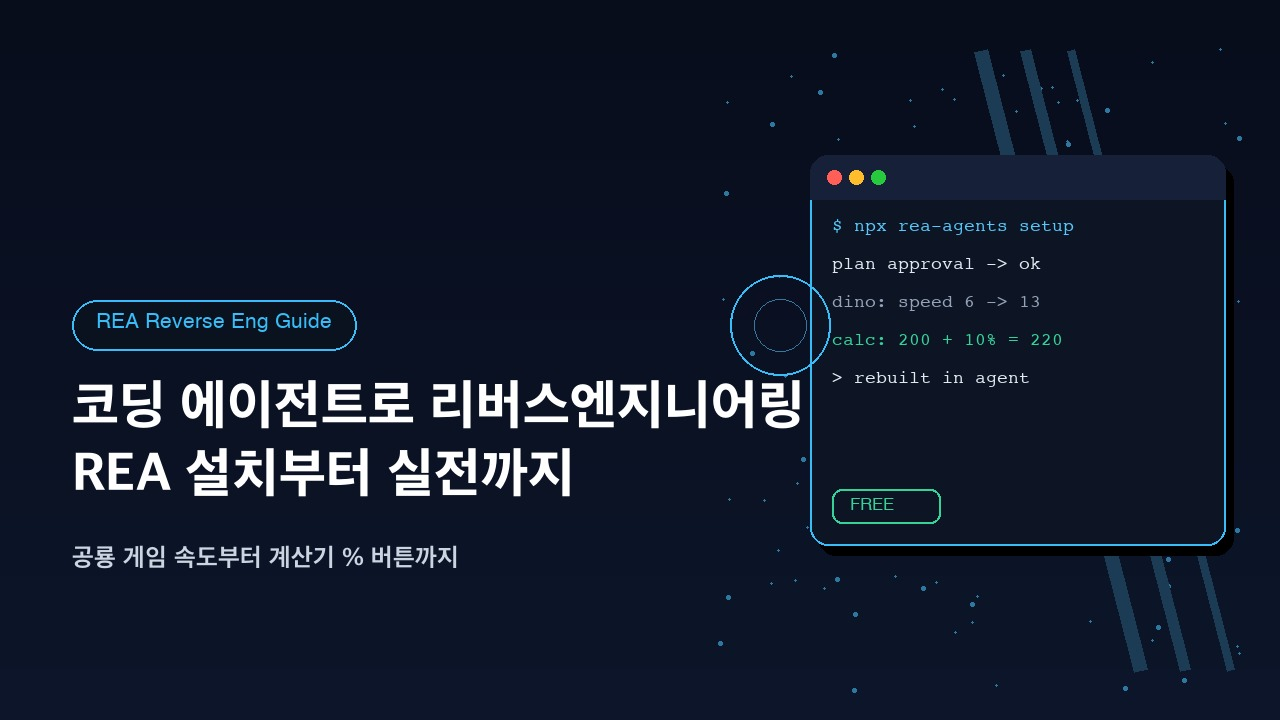
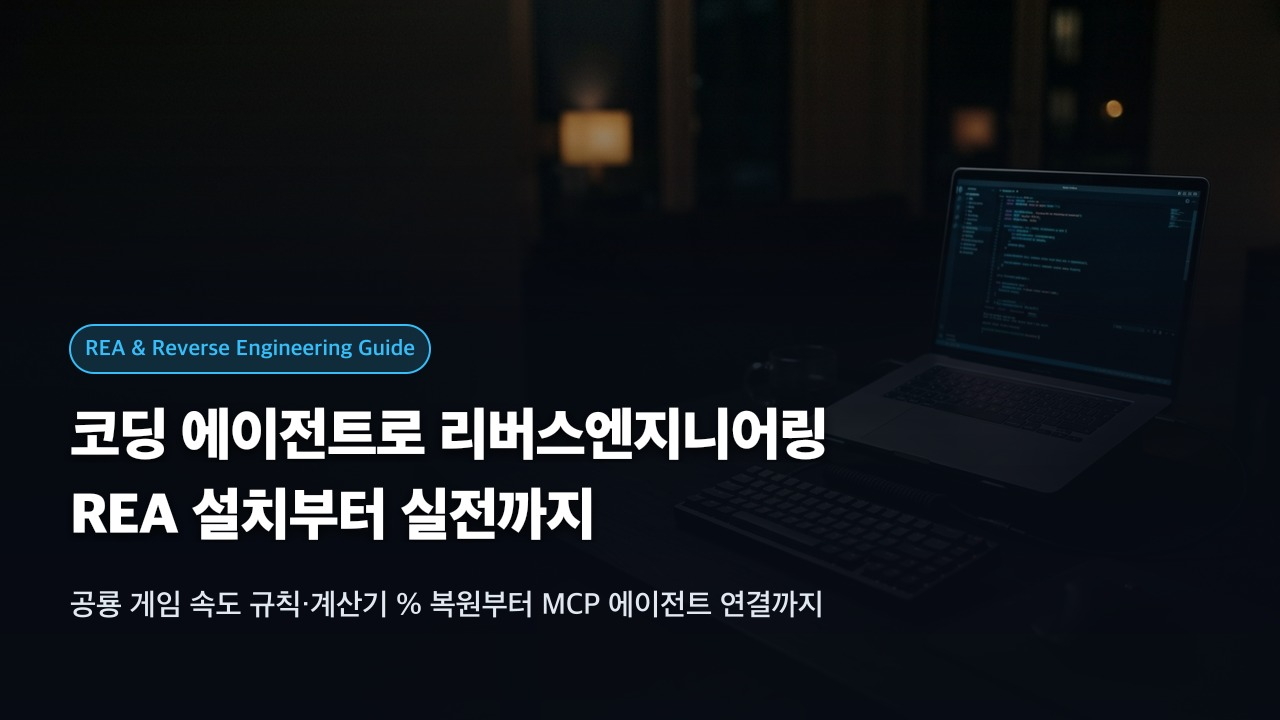
feat(post): REA 글 보완 (아키텍처도·MCP 연결·클린룸 원칙)
- REA-에이전트-사용자 협업 구조 SVG 다이어그램 추가
- OpenCode/Cursor/Claude MCP 연결 설정 및 프롬프트 템플릿
- 썸네일 실사풍 표준 디자인으로 교체

diff --git a/files/posts/20261013-1-rea-reverse-engineering-guide.md b/files/posts/20261013-1-rea-reverse-engineering-guide.md
@@ -3,34 +3,125 @@ category: "AI & Intelligence"
 title: "코딩 에이전트로 리버스엔지니어링: REA 설치부터 실전까지"
 date: "2026-10-13"
 image: "/images/rea-reverse-engineering-guide_thumbnail.jpg"
-tags: ["REA", "ReverseEngineering", "CodingAgent", "MCP", "OpenCode"]
-excerpt: "코딩 에이전트에게 분석 도구를 쥐여주는 REA. 설치법부터 공룡 게임 속도 규칙과 계산기 % 버튼 해부 예제까지 정리합니다."
+tags: ["REA", "ReverseEngineering", "CodingAgent", "MCP", "OpenCode", "CleanRoom"]
+excerpt: "코딩 에이전트에게 리버스엔지니어링의 눈을 쥐여주는 REA(Reverse Engineer Anything). 설치법부터 공룡 게임 속도 규칙·계산기 % 분기 복원, OpenCode·Cursor MCP 연결 및 클린룸 재구현 원칙까지 총정리합니다."
 ---
 
-## 🔍 1. REA란: 에이전트에게 분석 도구를 쥐여주기
+## 🔍 1. REA란: 에이전트에게 분석의 눈을 쥐여주기
 
-<strong>REA(Reverse Engineer Anything)</strong>는 코딩 에이전트가 프로그램을 조사하고 동작을 설명할 수 있도록 분석 도구를 제공하는 오픈소스 프로젝트입니다(MIT 라이선스). 한 줄로 말하면 <strong>에이전트용 리버스엔지니어링 도구 상자</strong>입니다.
+<strong>REA(Reverse Engineer Anything)</strong>는 코딩 에이전트가 프로그램을 조사하고 동작을 설명할 수 있도록 분석 도구를 제공하는 오픈소스 프로젝트입니다(GitHub: <code>morluto/rea</code>, MIT 라이선스). 한 줄로 정의하면 <strong>에이전트용 리버스엔지니어링 도구 상자</strong>입니다.
 
-구조는 단순합니다. <strong>REA가 제공하는 것</strong>과 <strong>에이전트가 하는 것</strong>이 명확히 나뉩니다.
+전통적인 리버스엔지니어링은 진입 장벽이 매우 높았습니다. 개발자가 Ghidra, IDA Pro, x64dbg 같은 전문 분석기를 직접 다루며 수천 줄의 어셈블리 명령어를 한 줄씩 읽고, 제어 흐름 그래프(Control Flow Graph)를 머릿속에서 재조립해야 했습니다.
 
-| 구분 | 내용 |
-| :--- | :--- |
-| <strong>REA가 제공</strong> | 명령어(어셈블리), 디컴파일된 코드, 함수 호출 관계 |
-| <strong>에이전트가 수행</strong> | 어떤 분기가 적용되는지, 무엇을 계산하는지, 어떻게 다시 만드는지 설명 |
+REA는 이 패러다임을 완전히 바꿉니다. <strong>코딩 에이전트(Claude Code, Cursor, OpenCode, Windsurf 등)가 두뇌(해석 및 추론)</strong>를 맡고, <strong>REA가 눈과 손(디컴파일 및 호출 관계 추출)</strong>을 맡습니다.
 
-즉 REA는 눈(분석 도구)이고, 에이전트는 머리(해석)입니다. 패키지 실체는 <strong>rea-agents</strong>(npm 기준 6.x대)이며, 터미널 CLI와 MCP 서버 두 얼굴을 가졌습니다. MCP 서버라는 점이 중요한데, 이 블로그에서 다룬 OpenCode처럼 <strong>MCP를 지원하는 에이전트라면 그대로 붙일 수 있다</strong>는 뜻이기 때문입니다.
+<div style="margin: 32px 0; display: flex; justify-content: center; width: 100%;">
+<svg viewBox="0 0 840 330" xmlns="http://www.w3.org/2000/svg" style="width: 100%; max-width: 840px; height: auto; font-family: -apple-system, BlinkMacSystemFont, Pretendard, sans-serif;">
+  <defs>
+    <linearGradient id="cardBg" x1="0%" y1="0%" x2="100%" y2="100%">
+      <stop offset="0%" stop-color="#161b22" />
+      <stop offset="100%" stop-color="#0d1117" />
+    </linearGradient>
+    <filter id="shadow" x="-5%" y="-5%" width="110%" height="110%">
+      <feDropShadow dx="0" dy="4" stdDeviation="6" flood-color="#000000" flood-opacity="0.3" />
+    </filter>
+    <marker id="arrowCyan" viewBox="0 0 10 10" refX="6" refY="5" markerWidth="6" markerHeight="6" orient="auto-start-reverse">
+      <path d="M 0 1 L 10 5 L 0 9 z" fill="#38bdf8" />
+    </marker>
+    <marker id="arrowIndigo" viewBox="0 0 10 10" refX="6" refY="5" markerWidth="6" markerHeight="6" orient="auto-start-reverse">
+      <path d="M 0 1 L 10 5 L 0 9 z" fill="#818cf8" />
+    </marker>
+    <marker id="arrowEmerald" viewBox="0 0 10 10" refX="6" refY="5" markerWidth="6" markerHeight="6" orient="auto-start-reverse">
+      <path d="M 0 1 L 10 5 L 0 9 z" fill="#34d399" />
+    </marker>
+  </defs>
+  <!-- Container -->
+  <rect width="840" height="330" rx="14" fill="#0d1117" stroke="#30363d" stroke-width="1.5" />
+  <!-- Title Badge -->
+  <rect x="25" y="16" width="230" height="26" rx="13" fill="rgba(56, 189, 248, 0.15)" stroke="#38bdf8" stroke-width="1" />
+  <text x="140" y="33" fill="#38bdf8" font-size="12" font-weight="700" text-anchor="middle">REA &amp; Coding Agent Architecture</text>
+  <!-- Node 1: User -->
+  <g transform="translate(35, 105)" filter="url(#shadow)">
+    <rect width="180" height="135" rx="10" fill="url(#cardBg)" stroke="#30363d" stroke-width="1.2" />
+    <rect x="12" y="14" width="28" height="28" rx="6" fill="#38bdf8" fill-opacity="0.2" />
+    <text x="26" y="33" font-size="16" text-anchor="middle">👤</text>
+    <text x="48" y="33" fill="#ffffff" font-size="14" font-weight="700">사용자 (Developer)</text>
+    <text x="16" y="65" fill="#94a3b8" font-size="12">1. 자연어 분석 지시</text>
+    <text x="16" y="85" fill="#94a3b8" font-size="12">2. 분석 계획 검토/승인</text>
+    <text x="16" y="105" fill="#34d399" font-size="12" font-weight="600">➔ 최종 결과 검증 및 사용</text>
+  </g>
+  <!-- Node 2: Coding Agent -->
+  <g transform="translate(290, 45)" filter="url(#shadow)">
+    <rect width="250" height="115" rx="10" fill="url(#cardBg)" stroke="#818cf8" stroke-width="1.5" />
+    <rect x="12" y="12" width="28" height="28" rx="6" fill="#818cf8" fill-opacity="0.2" />
+    <text x="26" y="31" font-size="16" text-anchor="middle">🧠</text>
+    <text x="48" y="31" fill="#ffffff" font-size="14" font-weight="700">코딩 에이전트 (Brain)</text>
+    <text x="16" y="60" fill="#c7d2fe" font-size="12" font-weight="600">OpenCode · Cursor · Claude Code</text>
+    <text x="16" y="80" fill="#94a3b8" font-size="11.5">• 분석 계획 수립 &amp; 문맥 이해</text>
+    <text x="16" y="98" fill="#94a3b8" font-size="11.5">• 동작 규칙 복원 &amp; 클린룸 재작성</text>
+  </g>
+  <!-- Node 3: REA MCP Engine -->
+  <g transform="translate(290, 185)" filter="url(#shadow)">
+    <rect width="250" height="115" rx="10" fill="url(#cardBg)" stroke="#38bdf8" stroke-width="1.5" />
+    <rect x="12" y="12" width="28" height="28" rx="6" fill="#38bdf8" fill-opacity="0.2" />
+    <text x="26" y="31" font-size="16" text-anchor="middle">🛠</text>
+    <text x="48" y="31" fill="#ffffff" font-size="14" font-weight="700">REA 엔진 (Eyes &amp; Hands)</text>
+    <text x="16" y="60" fill="#7dd3fc" font-size="12" font-weight="600">rea-agents (MCP Server / CLI)</text>
+    <text x="16" y="80" fill="#94a3b8" font-size="11.5">• 디컴파일러/AST 분석 브릿지</text>
+    <text x="16" y="98" fill="#94a3b8" font-size="11.5">• 어셈블리·호출 그래프·문자열 추출</text>
+  </g>
+  <!-- Node 4: Target -->
+  <g transform="translate(620, 105)" filter="url(#shadow)">
+    <rect width="185" height="135" rx="10" fill="url(#cardBg)" stroke="#30363d" stroke-width="1.2" />
+    <rect x="12" y="14" width="28" height="28" rx="6" fill="#34d399" fill-opacity="0.2" />
+    <text x="26" y="33" font-size="16" text-anchor="middle">🎯</text>
+    <text x="48" y="33" fill="#ffffff" font-size="14" font-weight="700">분석 대상 (Target)</text>
+    <text x="16" y="65" fill="#94a3b8" font-size="12">• C/C++, Rust, Go 실행파일</text>
+    <text x="16" y="85" fill="#94a3b8" font-size="12">• Electron / JS ASAR 아카이브</text>
+    <text x="16" y="105" fill="#94a3b8" font-size="12">• 브라우저 런타임 활동</text>
+  </g>
+  <!-- Connection: User -> Agent -->
+  <path d="M 215 140 Q 250 110 286 100" fill="none" stroke="#818cf8" stroke-width="1.8" marker-end="url(#arrowIndigo)" />
+  <text x="230" y="115" fill="#818cf8" font-size="10.5" font-weight="600">요청</text>
+  <!-- Connection: Agent <-> REA -->
+  <path d="M 400 160 L 400 180" fill="none" stroke="#38bdf8" stroke-width="1.8" marker-end="url(#arrowCyan)" />
+  <path d="M 430 180 L 430 160" fill="none" stroke="#818cf8" stroke-width="1.8" marker-end="url(#arrowIndigo)" />
+  <text x="438" y="173" fill="#94a3b8" font-size="10">MCP</text>
+  <!-- Connection: REA -> Target -->
+  <path d="M 540 220 Q 580 200 616 185" fill="none" stroke="#38bdf8" stroke-width="1.8" marker-end="url(#arrowCyan)" />
+  <text x="560" y="218" fill="#38bdf8" font-size="10.5" font-weight="600">추적/파싱</text>
+  <!-- Connection: Target -> REA -->
+  <path d="M 620 200 Q 580 230 544 240" fill="none" stroke="#34d399" stroke-width="1.8" stroke-dasharray="4 3" marker-end="url(#arrowEmerald)" />
+  <text x="575" y="240" fill="#34d399" font-size="10">바이트코드</text>
+</svg>
+</div>
+
+구조적 역할 분담은 아래 표와 같이 명확합니다.
+
+| 구분 | 주체 | 제공 및 수행하는 핵심 역할 |
+| :--- | :--- | :--- |
+| <strong>도구 (Eyes & Hands)</strong> | <strong>REA</strong> (<code>rea-agents</code>) | 디컴파일러 브릿지, 어셈블리/바이트코드 추출, 함수 호출 그래프(XREFs) 및 심볼 매핑 |
+| <strong>지능 (Brain)</strong> | <strong>코딩 에이전트</strong> | 조건 분기 추론, 데이터 연산 메커니즘 해석, 클린룸 명세서 및 신규 코드 작성 |
+| <strong>통제 (Control)</strong> | <strong>사용자 (Developer)</strong> | 분석 범위 지정, 변경 계획 승인(Permission), 재구현 결과 검증 |
+
+REA의 실체는 npm 패키지인 <strong>rea-agents</strong>(6.x대)이며, 터미널 CLI와 <strong>Model Context Protocol(MCP)</strong> 서버 인터페이스를 동시에 갖추고 있습니다. 즉, MCP를 지원하는 코딩 에이전트라면 별도의 플러그인 개발 없이 곧바로 붙여서 사용할 수 있습니다.
 
 ---
 
-## ⚙ 2. 설치: 프롬프트 한 줄과 승인 한 번
+## ⚙ 2. 설치 및 준비: 사전 요구사항과 자동 감지 설정
 
-공식 설치법은 에이전트에게 아래 취지의 프롬프트를 붙여넣는 것입니다.
+### 2-1. 사전 요구사항 (Prerequisites)
+* <strong>Node.js:</strong> v18.0.0 이상 (v20+ 권장, npx 환경)
+* <strong>(선택) Ghidra / Java 런타임:</strong> C/C++, Rust, Go 등 네이티브 기계어 바이너리를 심층 디컴파일할 경우 백엔드로 Ghidra 환경이 연동될 수 있습니다. (JS, Electron, 웹 앱 분석은 Node.js만으로 즉시 동작)
+
+### 2-2. 대화형 자동 설치
+공식적으로 권장되는 설치 방법은 사용 중인 코딩 에이전트의 프롬프트 창에 아래 명령을 전달하는 것입니다.
 
 ```text
 npx rea-agents@latest setup을 사용해 REA를 설치하고
-이 코딩 에이전트에 연결해 줘.
-먼저 설정 변경 계획을 보여 주고 내 승인을 받은 뒤 실행해 줘.
-마지막으로 설치를 확인해 줘.
+이 코딩 에이전트에 MCP 도구로 연결해 줘.
+먼저 설정 파일 변경 계획을 보여 주고 내 승인을 받은 뒤 실행해 줘.
+마지막으로 설치 완료 여부를 확인해 줘.
 ```
 
 터미널에서 직접 실행할 수도 있습니다.
@@ -39,72 +130,88 @@ npx rea-agents@latest setup을 사용해 REA를 설치하고
 npx rea-agents@latest setup
 ```
 
-흐름의 핵심은 <strong>설정 변경 계획을 먼저 보여주고 승인받은 뒤 실행</strong>한다는 점입니다. 에이전트가 에이전트 환경을 손대는 작업이므로, 이 블로그에서 강조한 <strong>permission.bash = ask</strong> 원칙과 정확히 같은 방향입니다. 설치 후에는 에이전트를 다시 시작해야 연결이 반영됩니다.
+`setup` 스크립트를 실행하면 시스템에 설치된 코딩 도구(Claude Code, Cursor, OpenCode, Windsurf, Claude Desktop 등)를 자동으로 감지하고, 해당 도구의 설정 파일(예: `opencode.json`, `.cursor/mcp.json` 등)에 REA MCP 서버를 등록할지 대화형으로 묻습니다.
+
+핵심은 <strong>설정 변경 계획을 사전에 확인하고 승인받은 뒤 실행</strong>하는 흐름입니다. 에이전트가 로컬 환경 설정을 변경하는 작업이므로, 보안상 <strong>permission.bash = ask</strong> 원칙을 철저히 유지해야 안전합니다. 설정 반영 후에는 코딩 에이전트를 재시작하면 REA 도구가 활성화됩니다.
 
 ---
 
-## 🦕 3. 예제 해부 1: 공룡 게임은 왜 점점 빨라질까
+## 🦕 3. 예제 해부 1: 크롬 공룡 게임 가속 알고리즘 복원
 
-공식 사이트의 첫 예제는 크롬 공룡 게임의 가속 규칙 복원입니다. 목표는 <strong>"얼마나 빨리 시작하고, 얼마나 증가하고, 어디서 멈추는가"</strong>를 알아내 조정 가능한 속도로 다시 만드는 것입니다.
+공식 사이트의 대표적인 실습 예제는 크롬 오프라인 공룡 러너(Chrome Dino Runner) 게임의 가속 규칙 복원입니다. 목표는 <strong>"게임이 어떤 속도로 시작하고, 매 프레임 얼마나 증가하며, 어디서 가속이 멈추는가"</strong>를 코드로 복원하는 것입니다.
 
-REA가 게임 스크립트에서 읽어낸 핵심은 아래 한 줄이었습니다.
+REA를 연결한 코딩 에이전트에게 공룡 게임 스크립트 분석을 요청하면, REA는 난독화된 번들에서 러너 클래스의 틱 업데이트 함수를 찾아내 아래 핵심 로직을 추출합니다.
 
-```js
+```javascript
+// REA가 디컴파일하여 추출한 속도 업데이트 분기
 if (this.currentSpeed < this.config.MAX_SPEED) {
   this.currentSpeed += this.config.ACCELERATION;
 }
 ```
 
-복원된 규칙은 <strong>속도 6에서 시작해 업데이트마다 0.001씩 더하고, 상한 13에서 멈춘다</strong>는 것입니다. 에이전트는 이 규칙을 읽어 속도 슬라이더가 달린 작은 버전을 새로 만들고, 사용자는 원래 가속을 체험한 뒤 자기 페이스를 고릅니다.
+에이전트는 이 코드를 바탕으로 설정 객체(`config`)의 원본 상수 값을 역추적해 복원해 냅니다.
 
-이 예제가 보여주는 REA의 역할 분담은 아래 3단계입니다.
+* <strong>시작 속도 (Initial Speed):</strong> <code>6.0</code>
+* <strong>프레임당 가속도 (Acceleration):</strong> <code>0.001</code>
+* <strong>최대 속도 상한 (Max Speed):</strong> <code>13.0</code>
 
-1. <strong>REA:</strong> 실행 중인 게임의 스크립트와 설정을 읽어 에이전트에 반환합니다.
-2. <strong>에이전트:</strong> 규칙을 다시 쓰고 속도 조절 컨트롤을 추가합니다.
-3. <strong>사용자:</strong> 속도를 바꿔가며 직접 플레이합니다.
+에이전트는 단순히 이 숫자를 알려주는 데서 멈추지 않고, 슬라이더로 시작 속도와 가속도를 자유롭게 조절할 수 있는 <strong>독립적인 웹 미니게임 컴포넌트를 클린룸 방식으로 새롭게 구현</strong>해 사용자에게 제공합니다.
 
 ---
 
-## 🧮 4. 예제 해부 2: 계산기 200 + 10%는 왜 220일까
+## 🧮 4. 예제 해부 2: Windows 계산기 200 + 10%는 왜 220일까
 
-두 번째 예제는 Windows 계산기의 <strong>% 버튼</strong>입니다. <strong>200 + 10%를 누르면 왜 220이 나오는가</strong>를 설치된 앱을 직접 검사해 복원합니다.
+두 번째 실전 예제는 Windows 계산기 애플리케이션의 <strong>% (퍼센트) 연산자 분기 해부</strong>입니다. 일반인에게는 단순해 보이는 `%` 버튼이지만, 실제 계산기 앱에서는 직전 연산자가 무엇이냐에 따라 동작이 극적으로 갈립니다.
 
-REA가 % 핸들러에서 읽어낸 규칙은 연산자별로 갈립니다.
+> <strong>"200 + 10%를 누르면 왜 20이 아니라 220이 계산되는가?"</strong>
 
-```js
-if (operation == multiply || operation == divide) {
+REA를 통해 계산기 이벤트 핸들러를 추적한 결과, 에이전트가 복원해낸 규칙은 아래와 같은 분기 구조였습니다.
+
+```javascript
+// 계산기 퍼센트 연산자 핸들러의 분기 메커니즘
+if (operation === multiply || operation === divide) {
+  // 곱셈(*) 또는 나눗셈(/) 뒤에 %가 오는 경우: 단순 비율 변환
   percent = current / 100;
 } else {
-  percent = current * previous / 100;
+  // 덧셈(+) 또는 뺄셈(-) 뒤에 %가 오는 경우: 기준값의 백분율로 환산
+  percent = (current * previous) / 100;
 }
 ```
 
-풀어서 쓰면 아래와 같습니다.
+* <strong>덧셈·뺄셈 케이스:</strong> 기준값(200)의 10%인 <code>20</code>을 구한 뒤, 원래 연산에 적용 ➔ <code>200 + 20 = 220</code>
+* <strong>곱셈·나눗셈 케이스:</strong> 10%를 단순 백분율 <code>0.1</code>로 변환 ➔ <code>200 × 0.1 = 20</code>
 
-* <strong>덧셈·뺄셈 뒤의 %:</strong> 첫 번째 숫자의 백분율을 가져옵니다. <strong>10% of 200 = 20 ➔ 200 + 20 = 220</strong>
-* <strong>곱셈·나눗셈 뒤의 %:</strong> 10%를 0.1로 바꿉니다. <strong>200 × 0.1 = 20</strong>
-
-에이전트는 두 경로를 모두 확인한 뒤, 같은 규칙으로 동작하는 작은 계산기를 다시 만듭니다. 어셈블리를 직접 읽는 대신 <strong>일상적인 말로 질문하면 된다</strong>는 것이 REA 방식의 요지입니다.
+바이너리 속에 숨겨진 미묘한 비즈니스 로직 분기를 어셈블리를 한 줄도 모르는 개발자라도 <strong>"이 버튼의 연산 규칙이 어떻게 구현되어 있어?"</strong>라는 자연어 질문 하나로 온전히 파악할 수 있는 것입니다.
 
 ---
 
-## 🗂 5. 분석 분야 3종: 어디에 쓸 수 있나
+## 🗂 5. 분석 분야 3종과 실무 3대 활용 시나리오
 
-공식은 분석 대상을 아래 3가지로 나눠 가이드를 제공합니다.
+REA 공식 문서는 분석 대상을 아래 3개 분야로 분류하여 제공합니다.
 
-| 분야 | 대상 | 하는 일 |
+| 분석 분야 | 주요 대상 | REA와 에이전트가 수행하는 작업 |
 | :--- | :--- | :--- |
-| <strong>기계 코드 프로그램</strong> | 실행 파일·라이브러리 | 함수·문자열·참조·호출 관계 검사 |
-| <strong>JavaScript·Electron</strong> | 앱 폴더·ASAR 아카이브 | 모듈·경로·기본 종속성 매핑 |
-| <strong>브라우저·런타임 활동</strong> | 선택한 브라우저·프로세스 | 활동 캡처 후 여러 실행 결과 비교 |
+| <strong>기계 코드 (Native Binary)</strong> | C/C++, Rust, Go 실행파일 및 DLL/.so 라이브러리 | 심볼·함수 프롤로그 분석, 교차 참조(XREFs), 문자열 인덱싱, 호출 그래프 가시화 |
+| <strong>JavaScript & Electron</strong> | Electron 앱(`app.asar`), 패키징된 Node.js 도구, 웹 번들 | ASAR 아카이브 압축 해제, Webpack 번들 디맹글링(De-mangling), 모듈 간 의존성 매핑 |
+| <strong>브라우저 & 런타임 활동</strong> | Chromium 브라우저 프로세스, 로컬 런타임 | DOM 상호작용 추적, 네트워크 페이로드 직렬화 해체, 여러 실행 시나리오 결과 비교 |
 
-시작용으로는 작은 앱 하나를 정해 추적하고, 입력 하나를 바꿔보는 <strong>첫 조사(first investigation) 가이드</strong>가 준비되어 있습니다. 거창한 대상부터 잡지 말고 계산기·메모장급 작은 프로그램으로 REA-에이전트 호흡을 먼저 익히는 것이 순서입니다.
+### 💡 실무 개발에서의 3대 활용 시나리오
+
+1. <strong>문서 없는 사내 레거시 시스템 규격 복원:</strong>
+   - 소스코드가 유실되었거나 주석/문서가 전무한 오래된 바이너리/패키지에서 핵심 데이터 처리 알고리즘 및 직렬화 포맷을 역공학해 최신 언어로 마이그레이션.
+2. <strong>비공개 내부 API 프로토콜 역추적:</strong>
+   - 네트워크 패킷만으로는 암호화되거나 압축되어 알 수 없는 클라이언트 측 요청 페이로드 생성 로직 및 서명(Signature) 알고리즘 분석.
+3. <strong>서드파티 라이브러리 의존성 및 보안 감사:</strong>
+   - 블랙박스 형태로 제공되는 외부 SDK나 Electron 앱이 백그라운드에서 어떤 시스템 리소스와 레지스트리에 접근하는지 투명하게 추적.
 
 ---
 
-## 🔌 6. OpenCode와 붙이기: MCP 한 줄이면 된다
+## 🔌 6. 에이전트 연결: OpenCode, Cursor, Claude Code 설정
 
-이 블로그 독자에게 가장 실용적인 포인트입니다. REA의 실체가 <strong>MCP 서버</strong>이므로, MCP를 지원하는 코딩 에이전트라면 설정에 서버를 등록하는 것만으로 연결됩니다. 이 블로그에서 Tavily 검색을 붙일 때 쓴 것과 같은 방식입니다.
+REA는 표준 <strong>Model Context Protocol(MCP)</strong> 서버로 구현되어 있으므로, 사용 중인 도구의 설정 파일에 등록하기만 하면 즉시 연동됩니다.
+
+### 6-1. OpenCode (`opencode.json`)
+OpenCode 환경에서는 프로젝트 루트의 설정 파일 또는 글로벌 설정에 아래와 같이 추가합니다.
 
 ```json
 {
@@ -119,45 +226,92 @@ if (operation == multiply || operation == divide) {
 }
 ```
 
-위 설정은 개념 예시이며, 정확한 실행 인자와 환경변수는 <strong>공식 시작 가이드(get-started)</strong>에서 사용 중인 버전에 맞춰 확인하세요. 연결 후에는 프롬프트에 REA 사용을 명시하면 됩니다.
+### 6-2. Cursor (`.cursor/mcp.json`)
+Cursor를 사용 중인 경우 워크스페이스 또는 글로벌 MCP 설정에 등록합니다.
+
+```json
+{
+  "mcpServers": {
+    "rea": {
+      "command": "npx",
+      "args": ["-y", "rea-agents@latest"]
+    }
+  }
+}
+```
+
+### 6-3. Claude Desktop / Claude Code
+Claude Desktop의 경우 <code>claude_desktop_config.json</code>의 <code>mcpServers</code> 항목에 동일하게 지정합니다.
+
+```json
+{
+  "mcpServers": {
+    "rea": {
+      "command": "npx",
+      "args": ["-y", "rea-agents@latest"]
+    }
+  }
+}
+```
+
+### 6-4. 실전 프롬프트 템플릿
+연결 후에는 아래 2단계 프롬프트를 활용하여 체계적으로 분석을 지시합니다.
 
 ```text
-REA를 사용해 이 계산기 앱의 % 버튼 규칙을 복원해 줘.
-먼저 분석 계획을 보여 주고 승인 후에 실행해 줘.
+[1단계: 계획 수립 및 조사]
+REA 도구를 사용해 './target_app'의 계산 로직을 분석해 줘.
+실제 분석 도구를 실행하기 전에 어떤 파일과 함수를 조사할 것인지 계획을 먼저 설명하고 내 승인을 받아 줘.
+
+[2단계: 클린룸 재구현]
+분석된 분기 규칙을 명세서(Specification) 형태로 정리해 주고,
+기존 코드를 복사하지 않고 TypeScript 독립 모듈로 동일하게 동작하는 코드를 새로 작성해 줘.
 ```
 
 ---
 
-## ⚖ 7. 합법·윤리 범위: 어디까지가 허용선인가
+## ⚖ 7. 합법·윤리적 가이드라인: 클린룸(Clean-Room) 리버스엔지니어링 원칙
 
-리버스엔지니어링 도구 글이므로 선을 분명히 합니다.
+리버스엔지니어링은 강력한 도구인 만큼 법적·윤리적 경계선(Clean-Room)을 명확히 인지하고 사용해야 합니다.
 
-* <strong>해도 되는 것:</strong> 본인 소유 소프트웨어의 학습·호환성·보안 점검 목적 분석, 오픈소스 예제(공룡 게임·계산기) 복원 실습.
-* <strong>하면 안 되는 것:</strong> 타인 저작물의 무단 복제·재배포, 라이선스·DRM 우회, 악성코드 제작·유포에 악용하기.
-* <strong>애매하면:</strong> 해당 소프트웨어의 이용약관과 각국 법령을 먼저 확인하고, 의심스러우면 공식 커뮤니티(Discord)·FAQ에 묻는 것이 안전합니다.
+<div style="margin: 24px 0; padding: 20px 24px; border-radius: 10px; background: rgba(56, 189, 248, 0.08); border-left: 4px solid #38bdf8;">
+  <strong style="color: #38bdf8; font-size: 16px;">🛡 클린룸 리버스엔지니어링(Clean-Room Reverse Engineering) 원칙</strong>
+  <p style="margin-top: 8px; margin-bottom: 0; line-height: 1.6; color: var(--text-primary, #e2e8f0); font-size: 14.5px;">
+    저작권법은 ‘표현(Code)’을 보호하며 ‘기능적 아이디어와 사양(Specification)’은 보호하지 않습니다. 원본 코드를 그대로 복사·붙여넣기하는 행위는 지적재산권 침해에 해당하지만, <strong>REA를 통해 동작 규칙과 사양서만 추출한 뒤 코딩 에이전트가 순수 새 코드로 다시 구현하는 방식</strong>은 전통적인 산업 표준 클린룸 엔지니어링의 정당한 활용 범주에 속합니다.
+  </p>
+</div>
 
-도구는 중립적이지만 책임은 사용자에게 있습니다. 이 블로그의 AI 활용 원칙(<strong>AI는 빨리 만들고 사람은 끝까지 책임진다</strong>)이 여기에도 그대로 적용됩니다.
-
----
-
-## ❓ 자주 묻는 질문
-
-<strong>Q1. 코딩 지식이 없어도 쓸 수 있나요?</strong><br />
-A. 일상적인 말로 질문하면 에이전트가 분석과 설명을 맡으므로, 코드를 직접 읽을 줄 몰라도 시작할 수 있습니다. 다만 결과를 검증하려면 기본 개념(함수·호출·분기)을 알아두는 것이 좋습니다.
-
-<strong>Q2. Windows 전용인가요?</strong><br />
-A. 아닙니다. 계산기 예제가 Windows 앱일 뿐, 기계 코드·JavaScript·브라우저 분석은 플랫폼을 가리지 않습니다. Node.js가 있으면 설치가 시작됩니다.
-
-<strong>Q3. 기존 디컴파일러와 무엇이 다른가요?</strong><br />
-A. 기존 도구가 코드를 보여주는 데서 끝난다면, REA는 <strong>에이전트가 코드를 해석·설명·재구성까지 이어가게</strong> 만드는 것이 차이입니다.
+* <strong>합법적으로 권장되는 영역:</strong>
+  * 상호 운용성(Interoperability) 확보를 위한 파일 포맷 및 통신 규격 분석
+  * 자체 개발 소프트웨어의 유실된 레거시 소스 복원 및 마이그레이션
+  * 소프트웨어 취약점 분석 및 보안 감사(Security Auditing)
+* <strong>절대 금지되는 영역:</strong>
+  * 저작권 기술적 보호조치(DRM) 무단 우회 및 크랙(Crack) 제작
+  * 상용 소프트웨어의 핵심 독점 코드를 무단 복제하여 상업적 복제품 출시
+  * 악성코드 제작, 침투 테스트 허가를 받지 않은 외부 시스템 리버스엔지니어링
 
 ---
 
-## 🎯 8. 총평: 분석의 눈을 에이전트에게
+## ❓ 자주 묻는 질문 (FAQ)
 
-REA의 가치는 기술 자체보다 <strong>작업 분담의 명확함</strong>에 있습니다. 도구는 읽고, 에이전트는 해석하고, 사람은 승인하고 검증합니다. 공룡 게임 속도 규칙 한 줄을 복원하는 데 어셈블리를 배울 필요가 없어졌다는 점이 이 도구의 전부이자 핵심입니다.
+<strong>Q1. 어셈블리어를 몰라도 정말 사용할 수 있나요?</strong><br />
+A. 네, 가능합니다. REA가 추출한 로우 레벨 바이트코드와 분기 흐름을 코딩 에이전트의 LLM이 고수준(High-level) 의사코드나 JavaScript/TypeScript 코드로 번역하고 설명해 주기 때문입니다. 다만 도출된 결과의 정확성을 검증하기 위해 함수의 호출 구조나 기본 논리 연산에 대한 이해는 갖추는 것이 좋습니다.
 
-관심이 생겼다면 작은 앱 하나로 첫 조사를 돌려보세요. 30분이면 REA-에이전트 호흡이 손에 익습니다.
+<strong>Q2. Windows 전용인가요? Mac이나 Linux에서도 동작하나요?</strong><br />
+A. 공식 계산기 예제가 Windows 앱이었을 뿐, REA 자체는 Node.js 기반으로 구동되며 macOS와 Linux를 완벽히 지원합니다. 특히 Electron 및 웹 앱, Linux ELF 바이너리 분석도 플랫폼 제약 없이 수행할 수 있습니다.
+
+<strong>Q3. Ghidra나 IDA Pro가 반드시 설치되어 있어야 하나요?</strong><br />
+A. 아닙니다. JavaScript, TypeScript, 웹 번들, Electron ASAR 아카이브 분석은 Node.js 환경만으로 즉시 구동됩니다. 네이티브 C/C++ 컴파일 바이너리의 심층 분석이 필요할 때만 백엔드 디컴파일러 환경이 보조적으로 요구됩니다.
+
+<strong>Q4. 난독화(Obfuscation)되어 변수명이 a, b, c로 바뀐 코드도 풀 수 있나요?</strong><br />
+A. 에이전트가 가장 뛰어난 능력을 발휘하는 영역입니다. REA가 난독화된 추상 구문 트리(AST)를 제공하면, LLM 에이전트가 함수의 입출력 파라미터와 호출 관계를 맥락적으로 추론하여 의미 있는 변수명과 함수명으로 디맹글링(De-mangling)해 복원해 줍니다.
+
+---
+
+## 🎯 8. 총평: 블랙박스를 화이트박스로 바꾸는 힘
+
+REA의 진정한 가치는 복잡한 분석 도구의 설치나 조작법을 외울 필요 없이, <strong>"도구는 읽고, 에이전트는 해석하며, 개발자는 승인하고 검증한다"</strong>는 명확한 협업 구조를 만든 데 있습니다.
+
+수십 년간 소수 보안 전문가의 전유물이었던 리버스엔지니어링이 이제는 모든 개발자가 레거시 코드를 이해하고 닫힌 시스템의 원리를 배우는 일상적인 엔지니어링 도구로 내려왔습니다. 관심이 있다면 계산기나 작은 오픈소스 유틸리티 하나로 첫 조사를 시작해 보세요.
 
 ---
 
